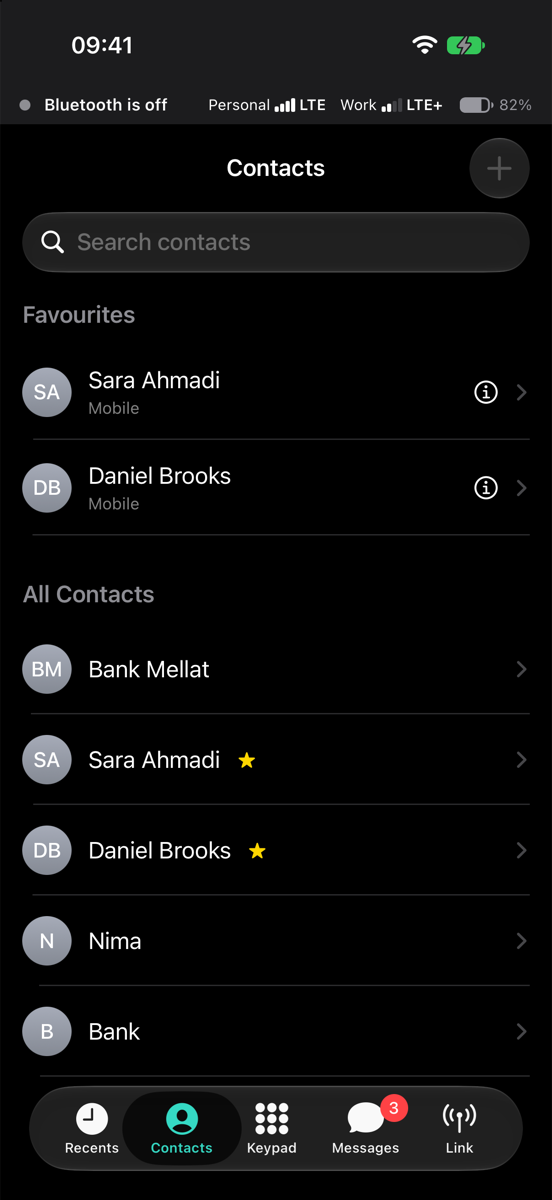
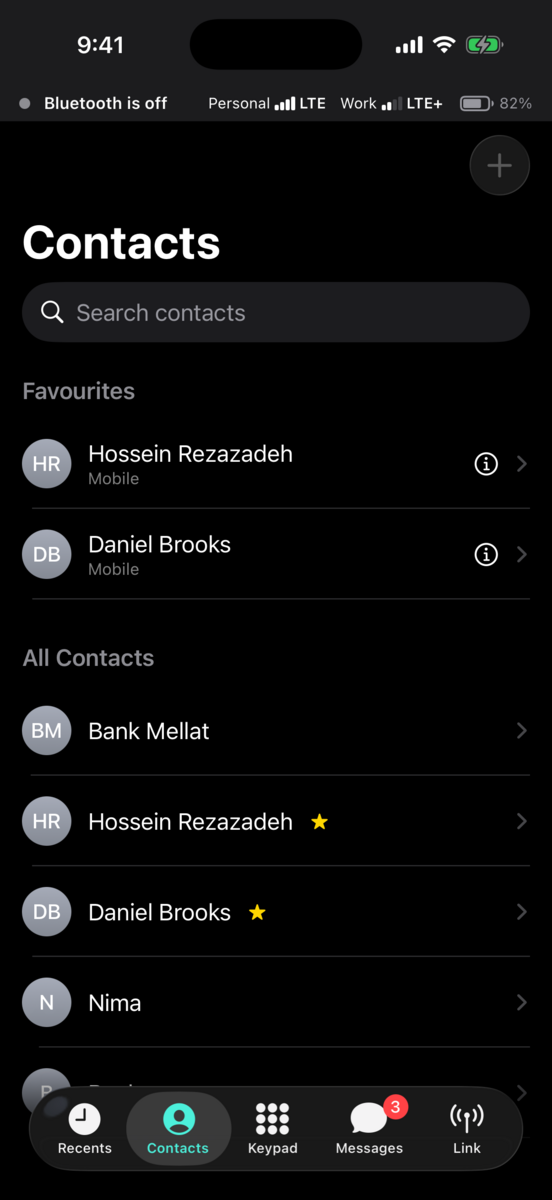
Screenshots: Hossein Rezazadeh as the demo contact, iOS 26 Liquid Glass look
Recents, contacts, keypad, conversations, one-time codes, phone tools and the Persian
messages list re-rendered in the iOS 26 simulator (Xcode 26.6) by the Screenshots workflow;
the call screen keeps the earlier picture with the demo name changed.

Claude-Session: https://claude.ai/code/session_014tcmYNB7YfDNwvFXvbxraT

diff --git a/docs/USAGE.md b/docs/USAGE.md
@@ -6,7 +6,7 @@ what you do on the Android phone shows up on the iPhone, and the other way round
 ## Calls
 
 - **Incoming calls** ring on the iPhone with the system call screen, also on the lock screen. With two SIMs, the
-  SIM's name follows the caller's name ("Sara · Work").
+  SIM's name follows the caller's name ("Hossein · Work").
 - **Answer, decline, hang up, mute, hold, keypad, speaker** work as in the Phone app. Holding the phone to your ear
   turns the screen off.
 - **Headsets and cars**: with a Bluetooth headset, a car kit or a wired headset connected, the Speaker button becomes
